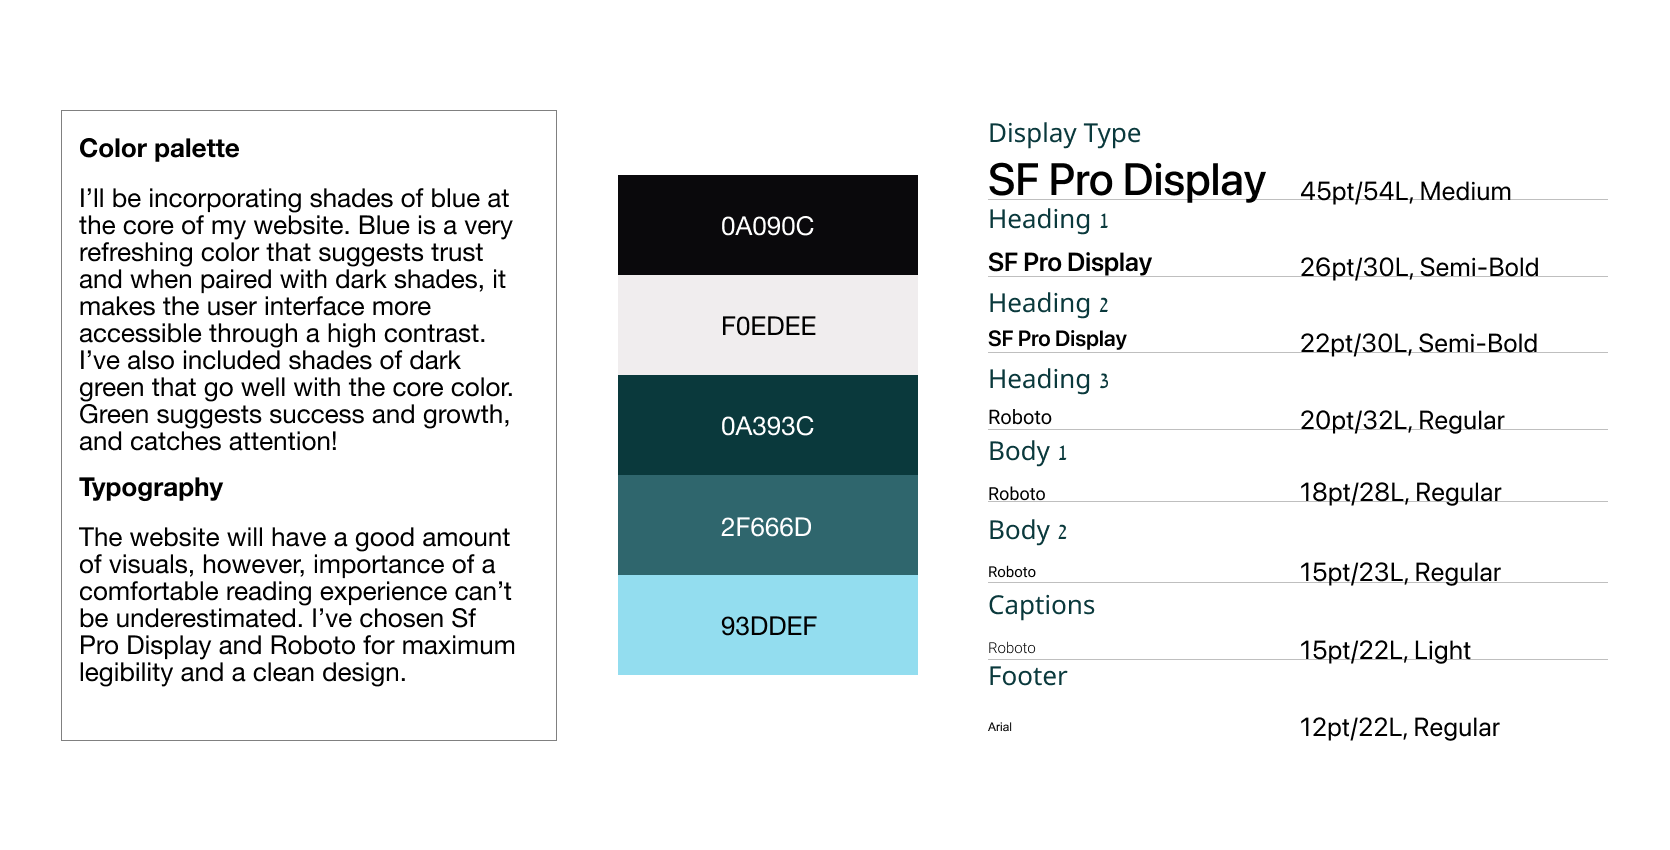
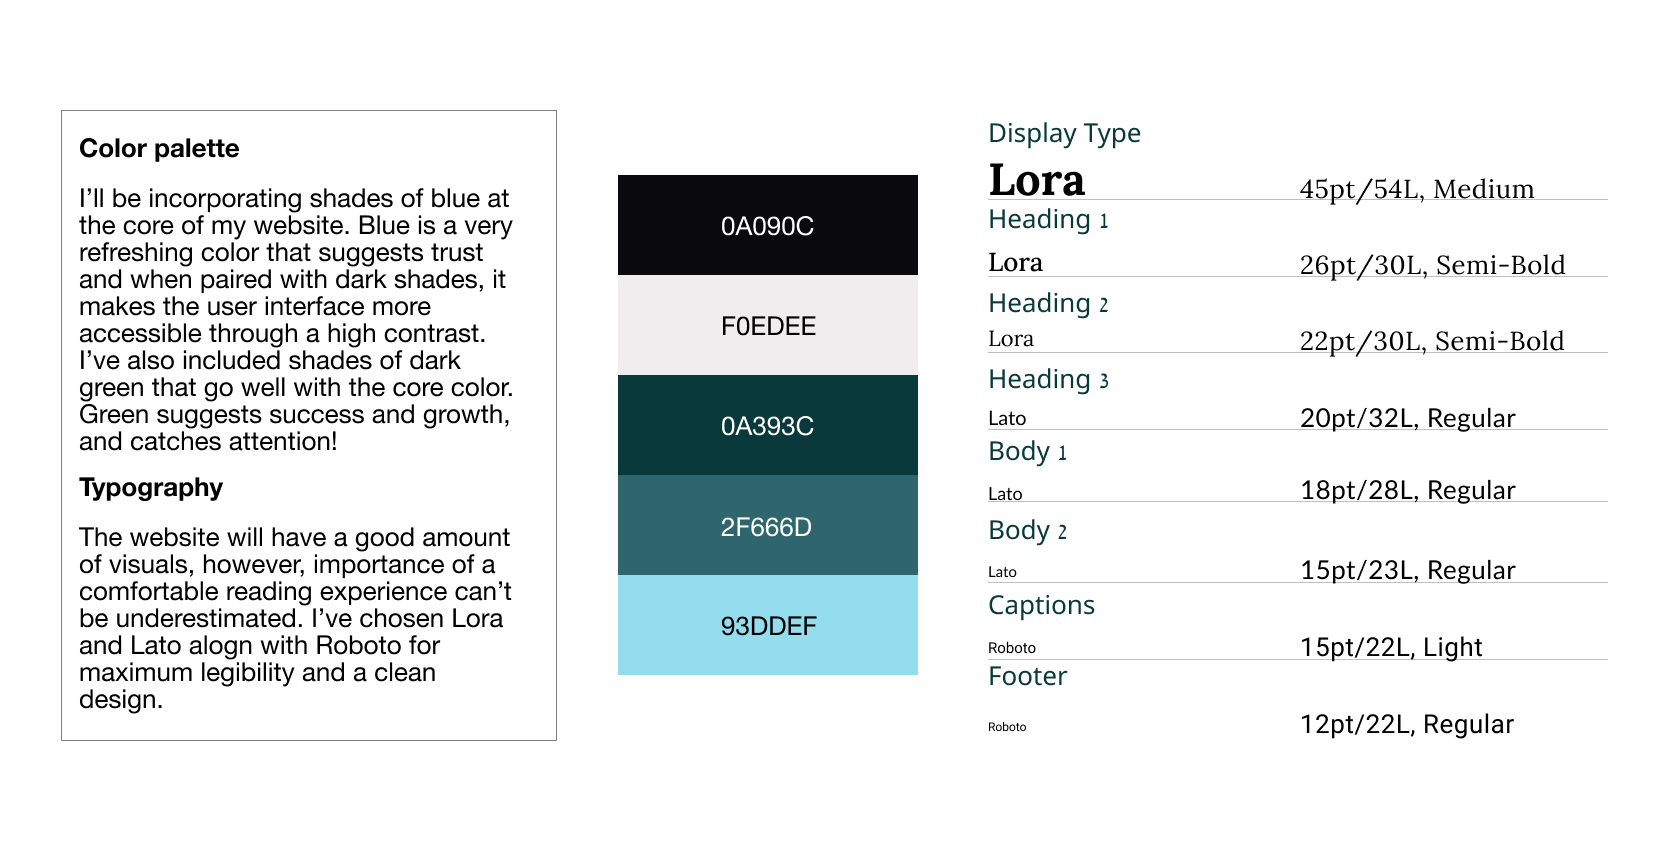
created style.css
Added viewport meta tags to html files and set 100% width to images. Added colors, typography and buttons along with attaching style.css to all html files.

diff --git a/index.html b/index.html
@@ -2,11 +2,21 @@
 <html lang="en" dir="ltr">
 
 <head>
-  <script src="https://kit.fontawesome.com/8f23e52dfd.js" crossorigin="anonymous"></script>
   <meta charset="utf-8">
+  <title>Dilpreet Walia UX/UI Designer New York City, NY</title>
+  <!-- css -->
+  <link rel="stylesheet" type="text/css" href="css/style.css">
+  <link rel="stylesheet" type="text/css" href="https://cdnjs.cloudflare.com/ajax/libs/normalize/8.0.0/normalize.min.css">
+    <!-- responsive scaling -->
+  <meta name="viewport" content="width=device-width, initial-scale=1">
+  <!-- fonts -->
+  <link rel="preconnect" href="https://fonts.googleapis.com">
+<link rel="preconnect" href="https://fonts.gstatic.com" crossorigin>
+<link href="https://fonts.googleapis.com/css2?family=Lato:wght@300;400;700;900&family=Lora:wght@400;500;600;700&family=Roboto:wght@100;300;400;500;700&display=swap" rel="stylesheet">
+
+  <script src="https://kit.fontawesome.com/8f23e52dfd.js" crossorigin="anonymous"></script>
   <meta name="author" content="Dilpreet Walia">
   <meta name="description" content="The homepage is meant to be a gateway to all the important information on this website.">
-  <title>Dilpreet Walia UX/UI Designer New York City, NY</title>
 </head>
 
 <body>
@@ -46,7 +56,7 @@
       <h3>Pink Pineapple Labs</h3>
       <p>
         A website redesign for a startup providing virtual reality training for possible hostile situations.</p>
-      <a href="">Read more</a>
+      <a href="#" class="button">Read more</a>
     </div><!-- end right column -->
     <div>
       <!-- end project 1 section -->
@@ -65,7 +75,7 @@
       <p>
         A website for health-conscious individuals that enables the users to organize their medical records, and access a range of mental and physical well-being resources.
       </p>
-      <a href="olive.html">Read more</a>
+      <a href="olive.html" class="button">Read more</a>
     </div><!-- end right column -->
     <div>
       <!-- end project 2 section -->
@@ -84,7 +94,7 @@
       <p>
         A fun vocabulary learning app that also helps you stay organized.
       </p>
-      <a href="">Read more</a>
+      <a href="#" class="button">Read more</a>
     </div><!-- end right column -->
     <div>
       <!-- end project 3 section -->
@@ -103,7 +113,7 @@
       <p>
         A web-responsive app that helps like-minded travelers from across the world connect with each other.
       </p>
-      <a href="">Read more</a>
+  <a href="#" class="button">Read more</a>
     </div><!-- end right column -->
     <div>
       <!-- end project 4 section -->
@@ -118,7 +128,7 @@
         I'd love to discuss my design process and potential job opportunities with you. Call: +1 585 770 0990 or schedule a zoom call at dwalia1807@gmail.com. Prefer to send an email?
       </p>
       <div>
-        <a href="dwalia1807@gmail.com">Email me</a>
+        <a href="dwalia1807@gmail.com" class="button contact">Email me</a>
       </div>
     </div>
     <!--social media layout and placeholders-->

diff --git a/css/style.css b/css/style.css
@@ -1,0 +1,138 @@
+/*
+Colors used:
+Text Color (Black): #0A090C;
+Primary Color (Dark blue): 040B5C
+Secondary Color (Dark teel): #0A393C
+Secondary Color (Light teel): #2F666D;
+Secondary Color (Blue): #93DDEF
+Secondary Color (Gray): #F0EDEE
+*/
+
+/* typography */
+body {
+font-family: 'Lato', serif;
+font-size: 16px;
+font-weight: 300;
+font-style: normal;
+line-height: 1.6;
+color: #0A090C;
+}
+h1, h2, h3, h4 {
+  line-height: 1.4;
+}
+h1 {
+  font-size: 2em;
+  font-weight: 900;
+}
+h2 {
+  font-size: 1.5em;
+  font-weight: 400;
+}
+h3 {
+  font-size: 1.5em;
+  font-weight: 400;
+}
+h4 {
+  font-size: 1.25em;
+  font-weight: 400;
+}
+h5 {
+  font-size: 1em;
+  font-weight: 300;
+}
+header {
+  font-family: 'Roboto', sans-serif;
+  font-size: 16px;
+  font-weight: 400;
+  font-style: normal;
+  line-height: 1.6;
+  color: #0A090C;
+  }
+  main {
+font-family: 'Lora', serif;
+    font-size: 16px;
+    font-weight: 400;
+    font-style: normal;
+    line-height: 1.6;
+    color: #0A090C;
+    }
+    footer {
+      font-family: 'Lora', sans-serif;
+      font-size: 16px;
+      font-weight: 400;
+      font-style: normal;
+      line-height: 1.6;
+      color: #0A090C;
+      }
+/* image */
+img {
+  max-width: 100%;
+}
+/* links and buttons */
+a {
+  color: #040B5C;
+  text-decoration: none;
+}
+a:hover {
+  color: #040B5C;
+  text-decoration: underline;
+}
+a:visited {
+  color: #040B5C;
+}
+a:active {
+  color: #040B5C;
+}
+a:hover,
+a:focus {
+  color: #1178B3;
+  text-decoration: underline;
+}
+.button {
+  display: inline-block;
+  background-color: #ffffff;
+  color: #040B5C;
+  font-weight: 400;
+  padding: 10px;
+  border-radius: 3px;
+  border: 2px solid #040B5C;
+  transition: 0.2s opacity;
+}
+  .button:visited {
+    background-color: #ffffff;
+    color: #040B5C;
+  }
+  .button:hover {
+    background-color: #040B5C;
+    color: #ffffff;
+  }
+  .button:active {
+    background-color: #ffffff;
+    color: #040B5C;
+  }
+.button.contact {
+  display: inline-block;
+  background-color: #ffffff;
+  color: #040B5C;
+  font-weight: 400;
+  padding: 10px;
+  border-radius: 3px;
+  border: 2px solid #040B5C;
+  transition: 0.2s opacity;
+}
+.button.contact:hover {
+  background-color: #040B5C;
+  color: #ffffff;
+}
+.button.contact:visited {
+  background-color: #ffffff;
+  color: #040B5C;
+}
+.button.contact:hover {
+  background-color: #040B5C;
+  color: #ffffff;
+}
+.button.contact:active {
+  background-color: #ffffff;
+  color: #040B5C;
+}

diff --git a/about.html b/about.html
@@ -2,11 +2,21 @@
 <html lang="en" dir="ltr">
 
 <head>
-  <script src="https://kit.fontawesome.com/8f23e52dfd.js" crossorigin="anonymous"></script>
   <meta charset="utf-8">
+  <title>Dilpreet Walia UX/UI Designer New York City, NY</title>
+  <!-- css -->
+  <link rel="stylesheet" type="text/css" href="css/style.css">
+  <link rel="stylesheet" type="text/css" href="https://cdnjs.cloudflare.com/ajax/libs/normalize/8.0.0/normalize.min.css">
+    <!-- responsive scaling -->
+  <meta name="viewport" content="width=device-width, initial-scale=1">
+  <!-- fonts -->
+  <link rel="preconnect" href="https://fonts.googleapis.com">
+  <link rel="preconnect" href="https://fonts.gstatic.com" crossorigin>
+  <link href="https://fonts.googleapis.com/css2?family=Lato:wght@300;400;700;900&family=Lora:wght@400;500;600;700&family=Roboto:wght@100;300;400;500;700&display=swap" rel="stylesheet">
+
+  <script src="https://kit.fontawesome.com/8f23e52dfd.js" crossorigin="anonymous"></script>
   <meta name="author" content="Dilpreet Walia">
   <meta name="description" content="The homepage is meant to be a gateway to all the important information on this website.">
-  <title>About Dilpreet Walia</title>
 </head>
 
 <body>
@@ -50,8 +60,8 @@
               further, I also learned frontend development to code and design this website.
               As a self-starter, when I look back to the beginning of my Design journey, I realize how far I have come. The drive to build products that humanize digital interactions motivates me. I strive to continue growing and learning as a
               designer.
-            </p>
-            <a href="files/dilpreet_resume.pdf" download>Download my Resume</a>
+            </p>              
+            <a href="files/dilpreet_resume.pdf" class="button target="_blank">Download my Resume</a>
           </div>
         </div>
       </div>
@@ -107,7 +117,7 @@
         I'd love to discuss my design process and potential job opportunities with you. Call: +1 585 770 0990 or schedule a zoom call at dwalia1807@gmail.com. Prefer to send an email?
       </p>
       <div>
-        <a href="dwalia1807@gmail.com">Email me</a>
+        <a href="dwalia1807@gmail.com" class="button contact">Email me</a>
       </div>
     </div>
     <!--social media layout and placeholders-->

diff --git a/olive.html b/olive.html
@@ -2,11 +2,21 @@
 <html lang="en" dir="ltr">
 
 <head>
+    <meta charset="utf-8">
+      <title>Olive</title>
+  <!-- css -->
+  <link rel="stylesheet" type="text/css" href="css/style.css">
+  <link rel="stylesheet" type="text/css" href="https://cdnjs.cloudflare.com/ajax/libs/normalize/8.0.0/normalize.min.css">
+    <!-- responsive scaling -->
+  <meta name="viewport" content="width=device-width, initial-scale=1">
+  <!-- fonts -->
+  <link rel="preconnect" href="https://fonts.googleapis.com">
+  <link rel="preconnect" href="https://fonts.gstatic.com" crossorigin>
+  <link href="https://fonts.googleapis.com/css2?family=Lato:wght@300;400;700;900&family=Lora:wght@400;500;600;700&family=Roboto:wght@100;300;400;500;700&display=swap" rel="stylesheet">
+
   <script src="https://kit.fontawesome.com/8f23e52dfd.js" crossorigin="anonymous"></script>
-  <meta charset="utf-8">
   <meta name="author" content="Dilpreet Walia">
   <meta name="description" content="The homepage is meant to be a gateway to all the important information on this website.">
-  <title>Olive</title>
 </head>
 
 <body>
@@ -189,7 +199,7 @@
         I'd love to discuss my design process and potential job opportunities with you. Call: +1 585 770 0990 or schedule a zoom call at dwalia1807@gmail.com. Prefer to send an email?
       </p>
       <div>
-        <a href="dwalia1807@gmail.com">Email me</a>
+        <a href="dwalia1807@gmail.com" class="button contact">Email me</a>
       </div>
     </div>
     <!--social media layout and placeholders-->
